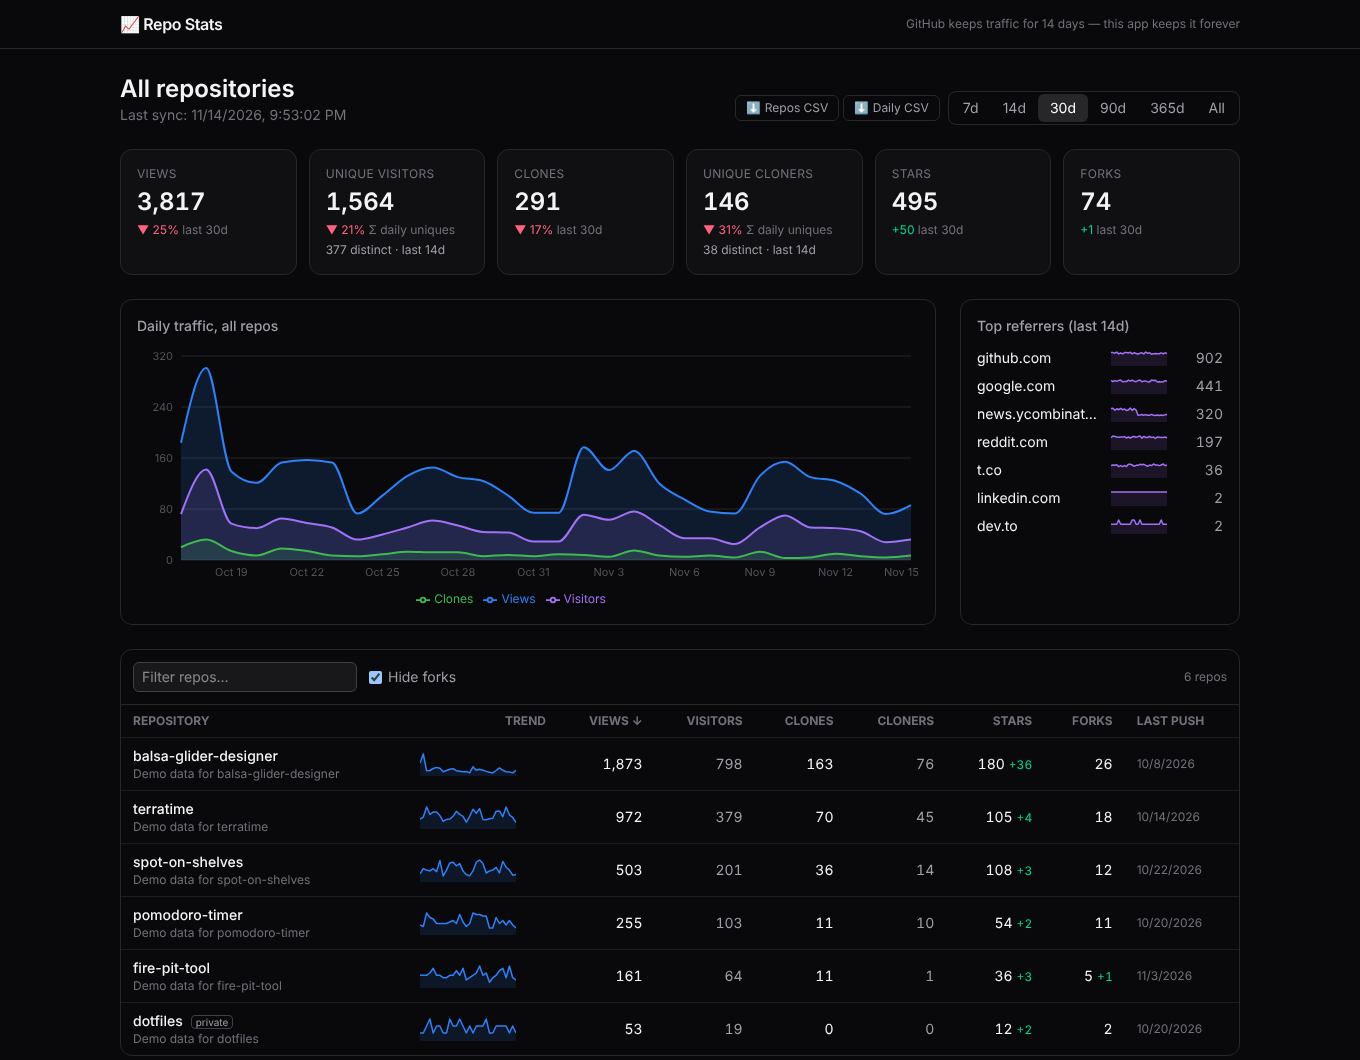
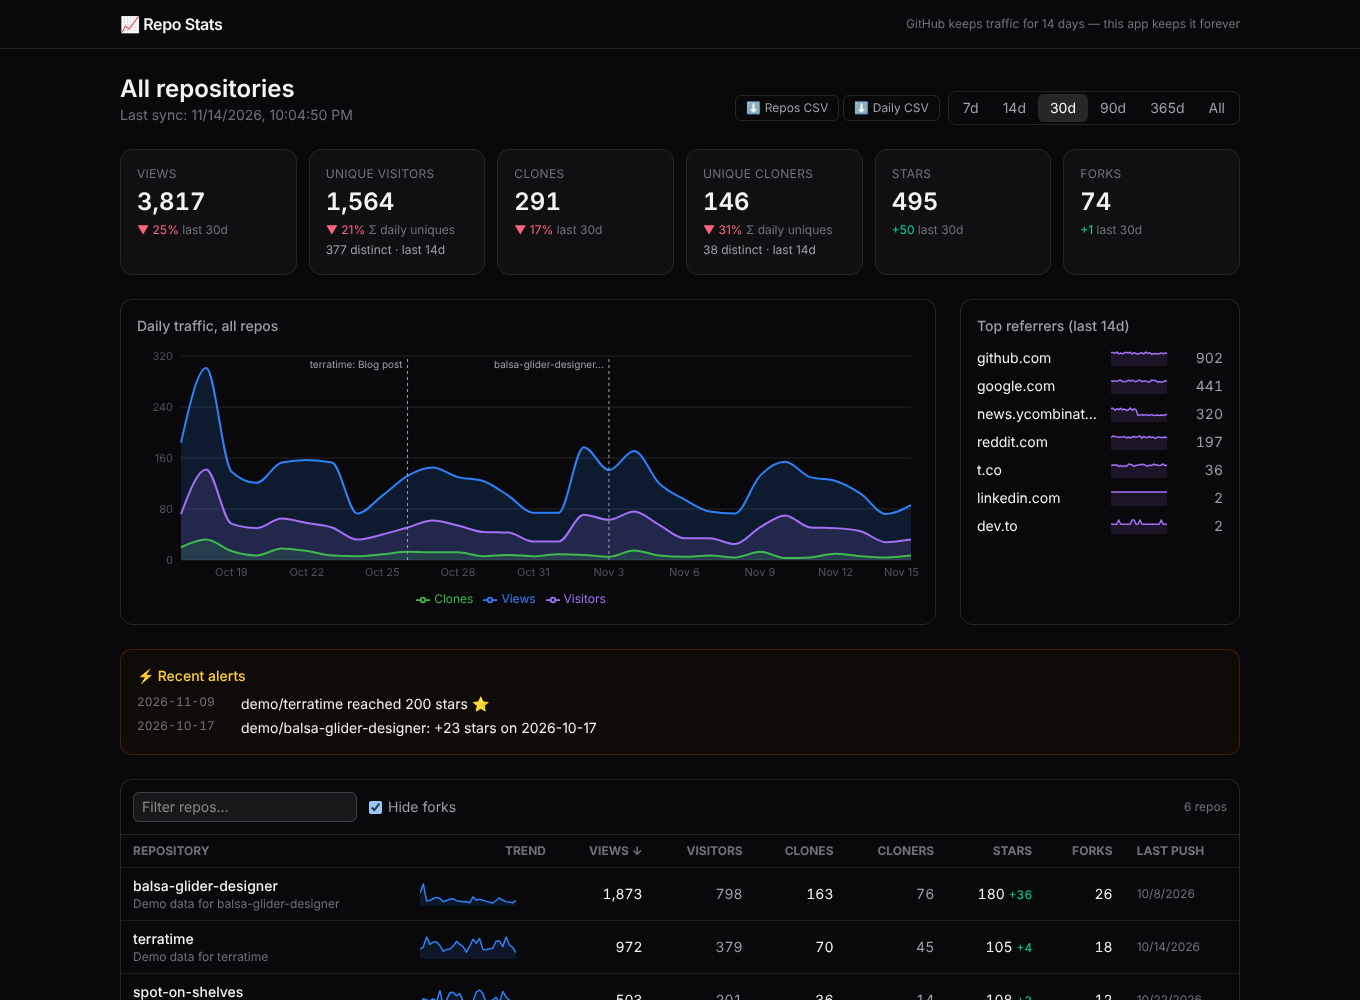
Docs: screenshot gallery, alerts/notes/badges guides, reference tables
README gains a feature table, screenshot gallery, alerts/notes/badges
sections, and configuration/scripts/routes tables. PLAN.md sync, UI, auth,
stack and data-model sections brought up to date; roadmap marks M3 done.

Claude-Session: https://claude.ai/code/session_01CLg9DqkfsZPcQVJvLtnybh

diff --git a/README.md b/README.md
@@ -1,67 +1,170 @@
 # GitHub Repo Stats
 
-A self-hosted Next.js dashboard for **views, unique visitors, clones, referrers, popular pages, stars, forks and release downloads** across all of your GitHub repositories — with history that goes back further than GitHub's 14-day traffic window.
+A self-hosted Next.js dashboard for **views, unique visitors, clones, referrers, popular pages, stars, forks and release downloads** across all of your GitHub repositories. It keeps history going back further than GitHub's 14-day traffic window, sends alerts when something takes off, and serves README badges.
 
 ![Overview](docs/overview.png)
 
-- **Overview** — totals with % change vs the previous period, daily traffic chart, sortable/filterable repo table with sparklines, top referrers with trend sparklines, CSV export.
-- **Repo detail** — views & clones (total vs unique), **full star & fork history** (back to repo creation), recent stargazers and forks, referrer trend chart, referrers, popular content, languages and weekly commits (cached), release downloads.
-- Ranges: 7 / 14 / 30 / 90 / 365 days / all time.
+<sub>All screenshots use the built-in demo data (`npm run seed:demo`).</sub>
+
+## Features
+
+| | |
+|---|---|
+| **Overview** | Totals with % change vs the previous period, daily traffic chart, sortable/filterable repo table with sparklines, top referrers with trends, recent alerts, CSV export |
+| **Repo detail** | Views & clones (total vs unique), full star & fork history, recent stargazers and forks, referrer trend, popular content, languages, weekly commits, release downloads |
+| **History** | Traffic is stored daily, so it outlives GitHub's 14-day limit. Star and fork history is rebuilt from GitHub's timestamps, back to the day each repo was created |
+| **Alerts** | Traffic spikes, star bursts and star milestones, shown in the app and optionally posted to Slack or Discord |
+| **Notes** | Pin notes like "Posted on Hacker News" to a date; they show as markers on the charts |
+| **Badges** | `views/month`, `visitors`, `clones`, `stars`, `forks` SVG badges for your READMEs (public repos only) |
+| **Ranges** | 7 / 14 / 30 / 90 / 365 days / all time |
+
+### Repo detail
 
 ![Repo detail](docs/repo-detail.png)
 
-_Screenshots use the built-in demo data (`npm run seed:demo`)._
-
-See [PLAN.md](./PLAN.md) for the architecture and roadmap.
+<table>
+<tr>
+<td width="50%"><b>Star & fork history</b> — back to repo creation, even before you installed the app<br><img src="docs/star-history.png" alt="Star and fork history"></td>
+<td width="50%"><b>Referrer trend</b> — where traffic comes from, over time<br><img src="docs/referrer-trend.png" alt="Referrer trend"></td>
+</tr>
+<tr>
+<td><b>Notes & alerts</b> — your notes plus automatically detected events<br><img src="docs/notes-alerts.png" alt="Notes and alerts"></td>
+<td><b>Mobile</b><br><img src="docs/mobile.png" alt="Mobile overview" width="260"></td>
+</tr>
+</table>
 
 ## How it works
 
-GitHub's Traffic API only returns the last 14 days. A daily sync job (`/api/cron/sync`, or `npm run sync`) pulls everything and upserts it into Postgres, so your history keeps growing. The dashboard reads only from the database.
+GitHub's Traffic API only returns the last 14 days. A daily sync job (`/api/cron/sync`, or `npm run sync`) pulls everything and upserts it into Postgres, so your history keeps growing. The dashboard reads only from the database. After each sync, the alert check looks at yesterday's numbers (the last complete day) and posts anything new to your webhook.
+
+See [PLAN.md](./PLAN.md) for the architecture, data model and roadmap.
 
 ## Setup
 
-1. **Token** — create a [fine-grained PAT](https://github.com/settings/personal-access-tokens/new) with *All repositories*, **Administration: Read-only** and **Metadata: Read-only** (or a classic token with `repo`).
-2. **Database** — create a free Postgres database (e.g. [Neon](https://neon.tech)).
-3. **Configure**
+1. **Token**: create a [fine-grained PAT](https://github.com/settings/personal-access-tokens/new) with *All repositories*, **Administration: Read-only** and **Metadata: Read-only** (or a classic token with `repo`).
+2. **Database**: create a Postgres database. [Neon](https://neon.tech)'s free tier works well; Railway, Supabase or a local Docker container work too.
+3. **Configure and run**
    ```bash
    cp .env.example .env    # fill in GITHUB_TOKEN, DATABASE_URL, CRON_SECRET
    npm install
    npm run db:migrate      # create tables
-   npm run sync            # first data pull (also backfills star/fork history)
+   npm run sync            # first data pull; also backfills star/fork history
    npm run dev
    ```
 
-   Want to look around before connecting GitHub? `npm run seed:demo` fills the database with fake repos.
+Want to look around before connecting GitHub? Run `npm run seed:demo` to fill the database with fake repos.
 
-### Postgres options
+## Deploy (Vercel)
 
-Neon URLs use the serverless HTTP driver; any other Postgres URL (Railway, Supabase, Docker) uses a regular TCP pool. Override with `DB_DRIVER=neon|pg`.
+1. Import the repo in Vercel and add the variables from `.env.example`. Set `DASHBOARD_PASSWORD`: without it, anyone with the URL can see your stats and add notes.
+2. `vercel.json` schedules `/api/cron/sync` daily. Vercel sends `Authorization: Bearer $CRON_SECRET` automatically.
+3. **First sync:** run `npm run sync` locally once. It backfills full star/fork history with no time limit.
+
+**Time limits:** the cron route collects traffic for every repo first, because GitHub deletes it after 14 days. It then refreshes star/fork history until its time budget (`SYNC_TIME_BUDGET_MS`, default 45s) runs out, and anything left over resumes on the next run. With very many repos you can also raise `maxDuration` (Vercel Pro) or use the included GitHub Actions workflow (`.github/workflows/sync.yml`). For that workflow, add `GH_STATS_TOKEN` and `DATABASE_URL` as repository secrets.
+
+## Alerts
+
+After each sync these are recorded for **yesterday**:
+
+| Alert | Fires when |
+|---|---|
+| Views spike | views ≥ `ALERT_SPIKE_FACTOR` × the trailing daily average **and** ≥ `ALERT_MIN_VIEWS` |
+| Clones spike | same rule for clones, with `ALERT_MIN_CLONES` |
+| Star burst | ≥ `ALERT_STAR_BURST` new stars in one day |
+| Star milestone | crossing 10, 25, 50, 100, 250, 500, 1k, 2.5k, 5k, 10k… stars |
+
+A repo needs a week of stored history before spikes are judged, so a fresh install doesn't flag everything. Alerts appear on the overview, in each repo's *Notes & alerts* list, and as amber markers on the charts. Each alert is recorded only once, even if the sync runs again.
+
+**Slack / Discord:** create an incoming webhook ([Slack](https://api.slack.com/messaging/webhooks), [Discord](https://support.discord.com/hc/en-us/articles/228383668)) and set `ALERT_WEBHOOK_URL`. Set `APP_URL` too if you want each message to link back to the repo page.
+
+## Notes
+
+Use the form on a repo page to pin a note to a date, such as a launch, a blog post or a release. Notes show as grey markers on that repo's charts and on the overview chart. Hover a marker to read it.
+
+## Badges
+
+```markdown
+![views](https://your-app.vercel.app/api/badge/OWNER/REPO?metric=views)
+```
+
+| Badge | Example |
+|---|---|
+| `?metric=views` (`&range=7` → per week, default 30 → per month) | ![views](docs/badge-views.svg) |
+| `?metric=visitors` (GitHub's deduplicated 14-day uniques) | ![visitors](docs/badge-visitors.svg) |
+| `?metric=stars` (also `clones`, `forks`) | ![stars](docs/badge-stars.svg) |
+
+Use `&label=…` to change the left-hand text. Badges skip `DASHBOARD_PASSWORD` so GitHub can load them. They only work for **public** repos (private or unknown repos return 404), and are cached for an hour. Set `BADGES_ENABLED=false` to turn them off.
+
+## About "unique" numbers
+
+GitHub reports unique visitors per day, and separately, deduplicated over its 14-day window. The big number on the cards adds up daily uniques over the selected range, so someone visiting on 3 days counts 3 times. The "distinct · last 14d" line underneath is GitHub's deduplicated figure from the latest sync.
+
+## Configuration
+
+All variables are listed with comments in [`.env.example`](./.env.example).
+
+| Variable | Required | Purpose |
+|---|---|---|
+| `GITHUB_TOKEN` | ✅ | Token used to read your repos and traffic |
+| `DATABASE_URL` | ✅ | Postgres connection string |
+| `CRON_SECRET` | ✅ | Protects `/api/cron/sync` |
+| `DASHBOARD_PASSWORD` | recommended | HTTP basic auth for the dashboard and notes (any username) |
+| `APP_URL` | | Public URL, for links in alert messages |
+| `ALERT_WEBHOOK_URL` | | Slack/Discord webhook for alerts |
+| `ALERTS_ENABLED` | | `false` turns alert detection off (default `true`) |
+| `ALERT_SPIKE_FACTOR` | | Spike threshold vs trailing average (default `3`) |
+| `ALERT_MIN_VIEWS` | | Minimum views for a views spike (default `25`) |
+| `ALERT_MIN_CLONES` | | Minimum clones for a clones spike (default `10`) |
+| `ALERT_STAR_BURST` | | Stars in one day for a star burst (default `5`) |
+| `BADGES_ENABLED` | | `false` disables `/api/badge` (default `true`) |
+| `DB_DRIVER` | | `neon` or `pg`. Auto-detected: `*.neon.tech` uses Neon's HTTP driver, anything else uses TCP |
+| `DB_POOL_MAX` | | Max TCP connections for non-Neon Postgres (default `5`) |
+| `SYNC_TIME_BUDGET_MS` | | Cron sync time budget before deferring history backfills (default `45000`) |
+
+## Scripts
+
+| Command | What it does |
+|---|---|
+| `npm run dev` / `npm run build` / `npm start` | Next.js dev server / production build / production server |
+| `npm run sync` | Run the collector once (no time limit) |
+| `npm run db:migrate` | Apply migrations in `drizzle/` |
+| `npm run db:generate` | Create a new migration after changing `src/lib/db/schema.ts` |
+| `npm run db:push` | Push the schema directly without migrations (prototyping only) |
+| `npm run seed:demo` | Fill the database with fake demo repos |
+| `npm run screenshots` | Regenerate the screenshots and badge samples in `docs/` (see below) |
+| `npm test` / `npm run test:watch` | Unit tests plus integration tests on in-memory Postgres (PGlite) |
+| `npm run lint` | ESLint |
+| `npm run typecheck` | TypeScript |
+
+## HTTP routes
+
+| Route | Auth | Purpose |
+|---|---|---|
+| `/` | dashboard password | Overview (`?range=7\|14\|30\|90\|365\|all`) |
+| `/repo/:owner/:name` | dashboard password | Repo detail and notes |
+| `/api/export` | dashboard password | CSV: `?kind=repos\|daily&range=…` |
+| `/api/cron/sync` | `Bearer CRON_SECRET` | Run the sync (Vercel Cron) |
+| `/api/badge/:owner/:name` | public (public repos only) | SVG badge |
 
 ## Development
 
 ```bash
-npm test            # unit tests + sync/query integration test on in-memory Postgres (PGlite)
-npm run lint
-npm run typecheck
-npm run build
+npm test && npm run lint && npm run typecheck && npm run build
 ```
 
-CI runs lint, typecheck, tests and build on every push and pull request.
+CI runs all four on every push and pull request.
 
-## Deploy (Vercel)
+### Keeping the docs current
 
-1. Import the repo in Vercel and add the env vars from `.env.example`.
-2. `vercel.json` schedules `/api/cron/sync` daily. Vercel sends `Authorization: Bearer $CRON_SECRET` automatically.
-3. Set `DASHBOARD_PASSWORD` to put the dashboard behind basic auth.
-
-**First sync:** run `npm run sync` locally once — it backfills full star/fork history with no time limit.
-
-**Time limits:** the cron route collects traffic for every repo first (it expires after 14 days), then refreshes star/fork history until its time budget (`SYNC_TIME_BUDGET_MS`, default 45s) runs out; anything left over resumes on the next run. For very many repos you can also raise `maxDuration` (Pro) or use the included GitHub Actions workflow (`.github/workflows/sync.yml`) — add `GH_STATS_TOKEN` and `DATABASE_URL` as repository secrets.
-
-### About "unique" numbers
-
-GitHub reports unique visitors per day and, separately, deduplicated over its 14-day window. The big number on the cards sums daily uniques over the selected range (someone visiting on 3 days counts 3 times); the "distinct · last 14d" line underneath is GitHub's deduplicated figure from the latest sync.
+- `tests/docs.test.ts` fails CI if this README is missing an environment variable from `.env.example`, an npm script, an API route, or a screenshot it links to. Update the README in the same change as the code.
+- After UI changes, regenerate the screenshots from demo data so they never show real stats:
+  ```bash
+  npm run seed:demo && npm run build && npm start   # in one terminal
+  npm run screenshots                               # in another
+  ```
+  This needs a Chromium: run `npx playwright install chromium` once, or set `CHROME_CHANNEL=chrome` to use an installed Chrome.
+- Update the roadmap in [PLAN.md](./PLAN.md) when a milestone ships.
 
 ## Stack
 
-Next.js 15 · TypeScript · Tailwind CSS v4 · Recharts · Drizzle ORM · Postgres (Neon or any) · Octokit · Vitest + PGlite
+Next.js 15 · TypeScript · Tailwind CSS v4 · Recharts · Drizzle ORM · Postgres (Neon or any) · Octokit · Vitest + PGlite · Playwright (screenshots)

diff --git a/PLAN.md b/PLAN.md
@@ -34,14 +34,15 @@ Not available from GitHub: visitor geography, devices, time-of-day, individual i
 
 - **Next.js 15 (App Router) + TypeScript** — server components query the DB directly.
 - **Tailwind CSS v4** for styling, **Recharts** for charts.
-- **Postgres** (Neon free tier works well with Vercel) via **Drizzle ORM**.
+- **Postgres** via **Drizzle ORM**: Neon's serverless HTTP driver for `*.neon.tech`, postgres.js (TCP) for anything else.
 - **Octokit** for the GitHub REST API.
 - **Vercel Cron** hitting `/api/cron/sync` daily (a GitHub Actions schedule is an equally good alternative).
+- **Vitest + PGlite** (in-memory Postgres with the real migrations) for tests; **Playwright** for README screenshots; ESLint; GitHub Actions CI.
 
 ## 4. Auth (v1: single user)
 
 - A **fine-grained personal access token** in `GITHUB_TOKEN`, scoped to *All repositories* with **Administration: Read-only** (required for traffic) and **Metadata: Read-only**. A classic token with `repo` scope also works.
-- Dashboard itself is protected by a simple `DASHBOARD_PASSWORD` (middleware) — or deploy privately.
+- Dashboard, CSV export and note-editing server actions are protected by `DASHBOARD_PASSWORD` (HTTP basic auth middleware). Exceptions: `/api/cron/*` (own bearer secret) and `/api/badge/*` (public by design, public repos only).
 - **v2:** Auth.js GitHub OAuth / a GitHub App so multiple users can sign in and track their own repos (tables already carry `owner`).
 
 ## 5. Data model
@@ -57,39 +58,34 @@ popular_paths    (repo_id, date, path) PK — title, count, uniques
 release_assets   (repo_id, date, asset_id) PK — release_tag, asset_name, downloads (cumulative)
 star_events      (repo_id, login) PK — starred_at        [full star history, refetched only when count changes]
 fork_events      (repo_id, fork_id) PK — full_name, owner, stars, created_at
+alerts           (id, repo_id, date, kind) — message, value, baseline, notified_at   [unique (repo_id, date, kind)]
+annotations      (id, repo_id, date, label) — user notes shown as chart markers
 sync_runs        (id, started_at, finished_at, repos_synced, error)
 ```
 
 All writes are upserts, so re-running the sync is safe and the partial "today" row simply gets corrected next run.
 
-## 6. Sync job (`/api/cron/sync`)
+## 6. Sync job (`/api/cron/sync` daily, or `npm run sync`)
 
-1. Authenticated by `Authorization: Bearer $CRON_SECRET` (Vercel sends this automatically).
+1. Cron route is authenticated by `Authorization: Bearer $CRON_SECRET` (Vercel sends this automatically).
 2. List all owned repos (paginated) → upsert `repos` + today's `repo_snapshots`.
-3. For each repo (concurrency 4): views, clones, referrers, paths, releases → upsert.
-4. Record a `sync_runs` row. ~5 requests per repo, so 100 repos ≈ 500 requests — far under the 5,000/hour limit.
-5. Vercel Hobby functions time out at 60s; for many repos, set `maxDuration` higher (Pro) or move the sync to a GitHub Actions workflow that runs `npm run sync`.
+3. **Traffic first** (concurrency 4, skipping archived repos): views, clones, 14-day totals, referrers, paths, releases → upsert. This always runs in full because GitHub deletes it after 14 days.
+4. **History second**: refetch stargazers/forks only for repos whose count changed, smallest first, until `SYNC_TIME_BUDGET_MS` (cron default 45s; CLI unlimited). Leftovers resume next run.
+5. **Alerts**: judge yesterday against stored history → insert into `alerts` (idempotent) → post unnotified ones to `ALERT_WEBHOOK_URL`.
+6. Record a `sync_runs` row. About 5 requests per repo plus history refreshes, so 100 repos ≈ 500 requests, well under the 5,000/hour limit.
 
 ## 7. UI
 
-**Overview `/`**
-- Range picker: 7 / 14 / 30 / 90 / 365 days / all.
-- KPI cards: total views, unique visitors, clones, unique cloners, total stars, total forks (with change over range).
-- Stacked area chart: daily views across all repos.
-- Sortable table: repo, views, uniques, clones, stars (+Δ), forks (+Δ), sparkline, last push.
-- Top referrers across all repos.
+**Overview `/`**: range picker (7/14/30/90/365/all), KPI cards with % vs previous period and GitHub's deduplicated 14-day uniques, daily traffic chart with note markers, top referrers with sparklines, recent alerts, sortable/filterable repo table with sparklines, CSV export.
 
-**Repo detail `/repo/[owner]/[name]`**
-- KPIs for that repo, views/clones line chart (total vs unique).
-- Stars & forks over time (from snapshots).
-- Referrers and popular paths tables (latest window) + referrer trend.
-- Release downloads per asset.
-- Languages breakdown, commit activity (fetched live, cached).
+**Repo detail `/repo/[owner]/[name]`**: KPIs; views/clones charts with note and alert markers; stars & forks history from event timestamps; weekly commits and languages (fetched live, cached); notes & alerts (add/delete notes); referrer trend; referrers and popular content; recent stargazers and forks; release downloads.
+
+**Badges `/api/badge/[owner]/[name]`**: public SVG for public repos only.
 
 ## 8. Roadmap
 
 - **M1 ✅** schema, sync job, overview + detail pages, cron.
 - **M2 ✅** basic-auth middleware, range picker incl. all-time, sparklines, % vs previous period (only when a full previous window is stored), full star/fork history from GitHub timestamps, recent stargazers/forks, CSV export, demo seed data, any-Postgres support, unit + integration tests, CI.
 - **M2.5 ✅** time-budgeted sync (traffic first, history backfills resume next run), GitHub's deduplicated 14-day uniques, 1h cache for live languages/commit stats, referrer trend chart + sparklines, ESLint in CI.
-- **M3:** week-over-week alerts (traffic spike → email/webhook), per-repo notes/annotations on charts (e.g. "posted on HN"), README badge endpoint.
-- **M4:** multi-user via GitHub OAuth / GitHub App.
+- **M3 ✅** alerts (views/clones spikes, star bursts, star milestones) stored per day, shown in the UI and posted to a Slack/Discord webhook; notes pinned to dates as chart markers; public SVG badges; screenshot script and a docs-drift test in CI.
+- **M4:** multi-user via GitHub OAuth / a GitHub App (tables already carry `owner`); email alerts; release-date markers from GitHub releases; per-repo alert thresholds.
